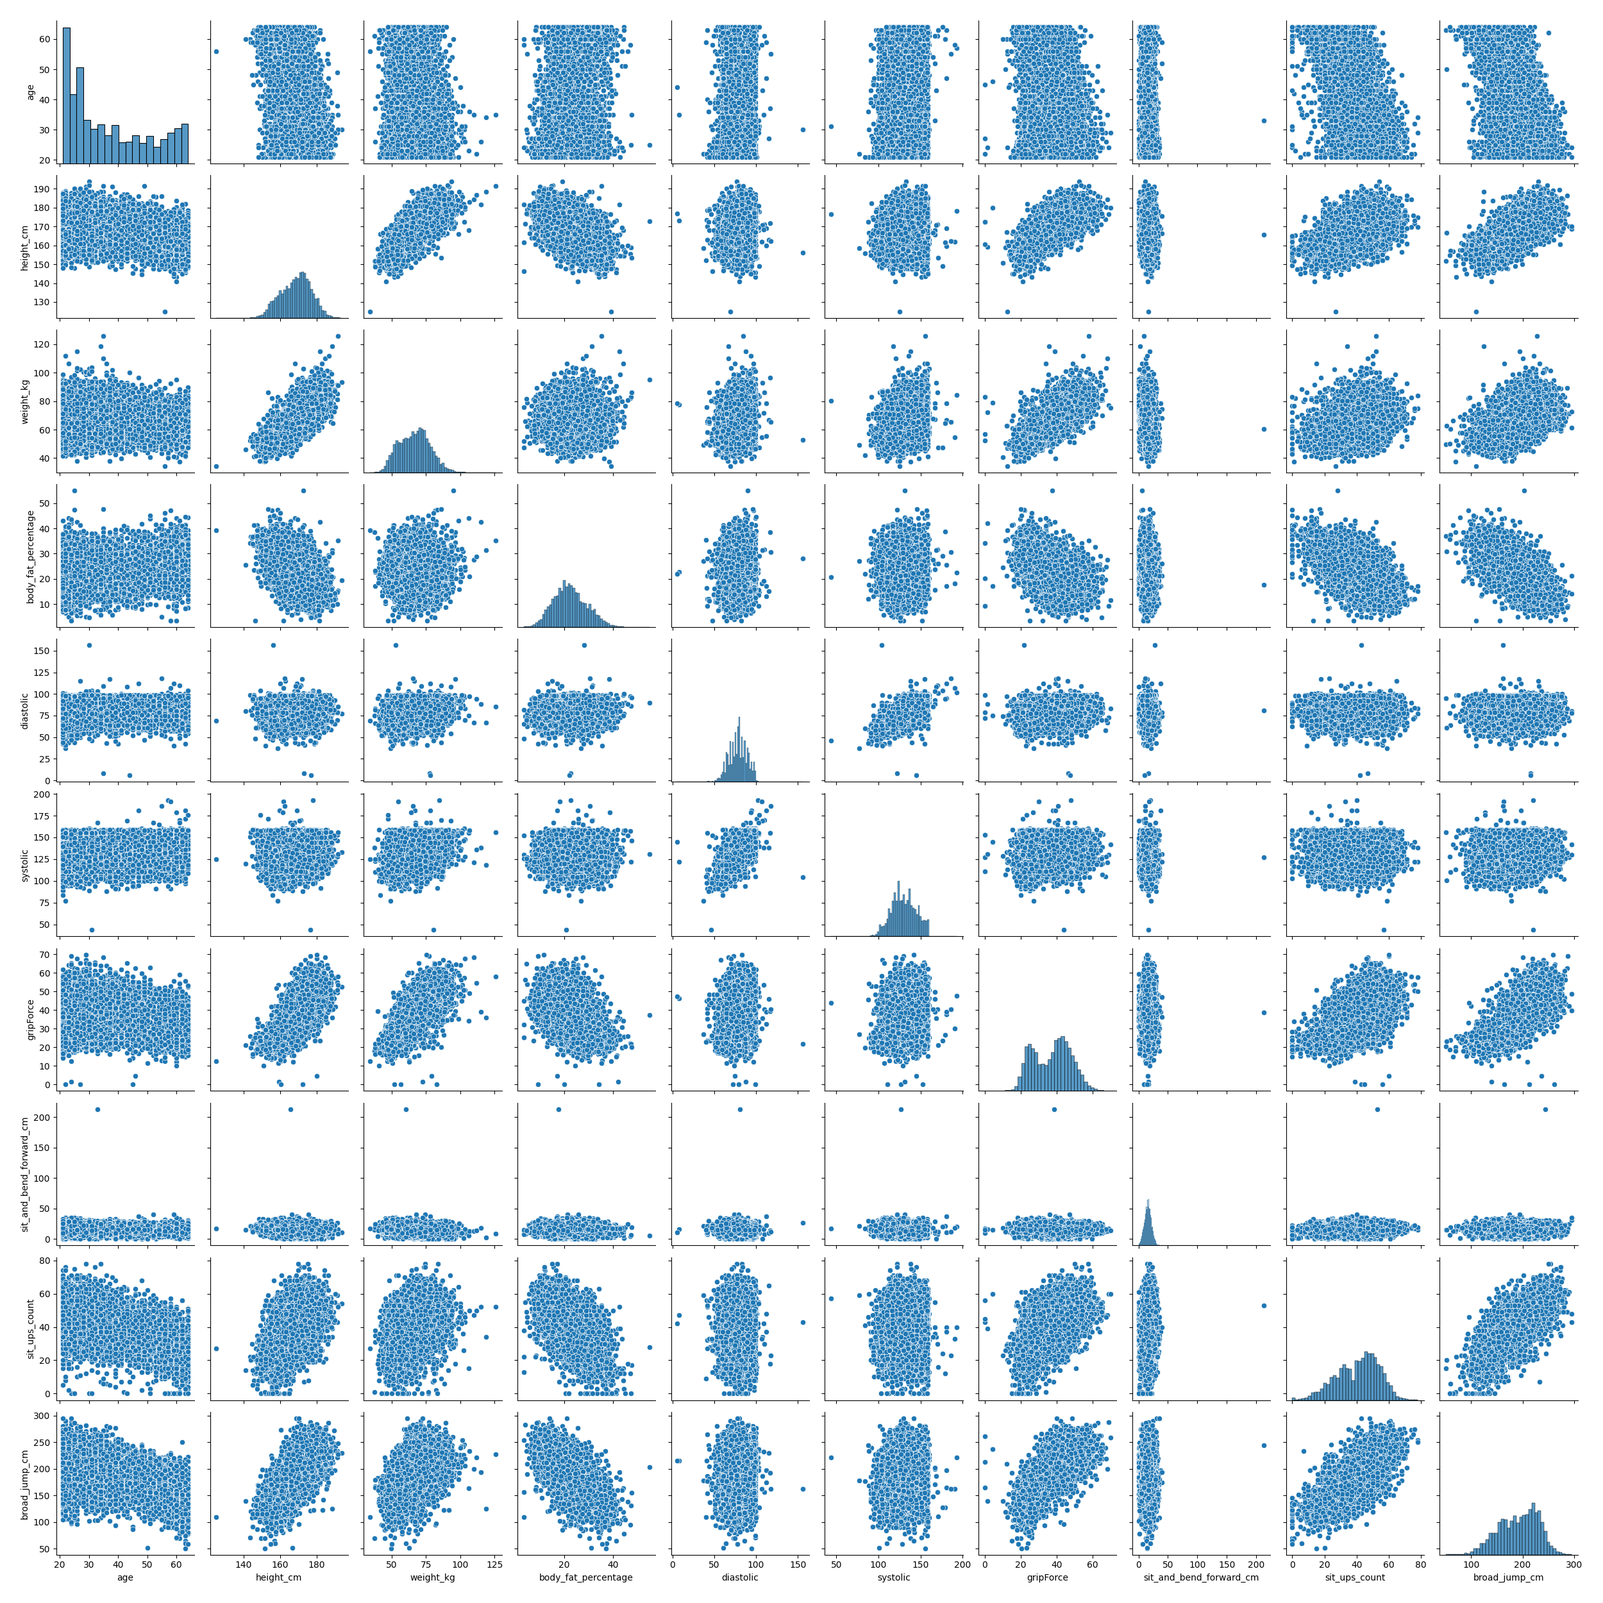
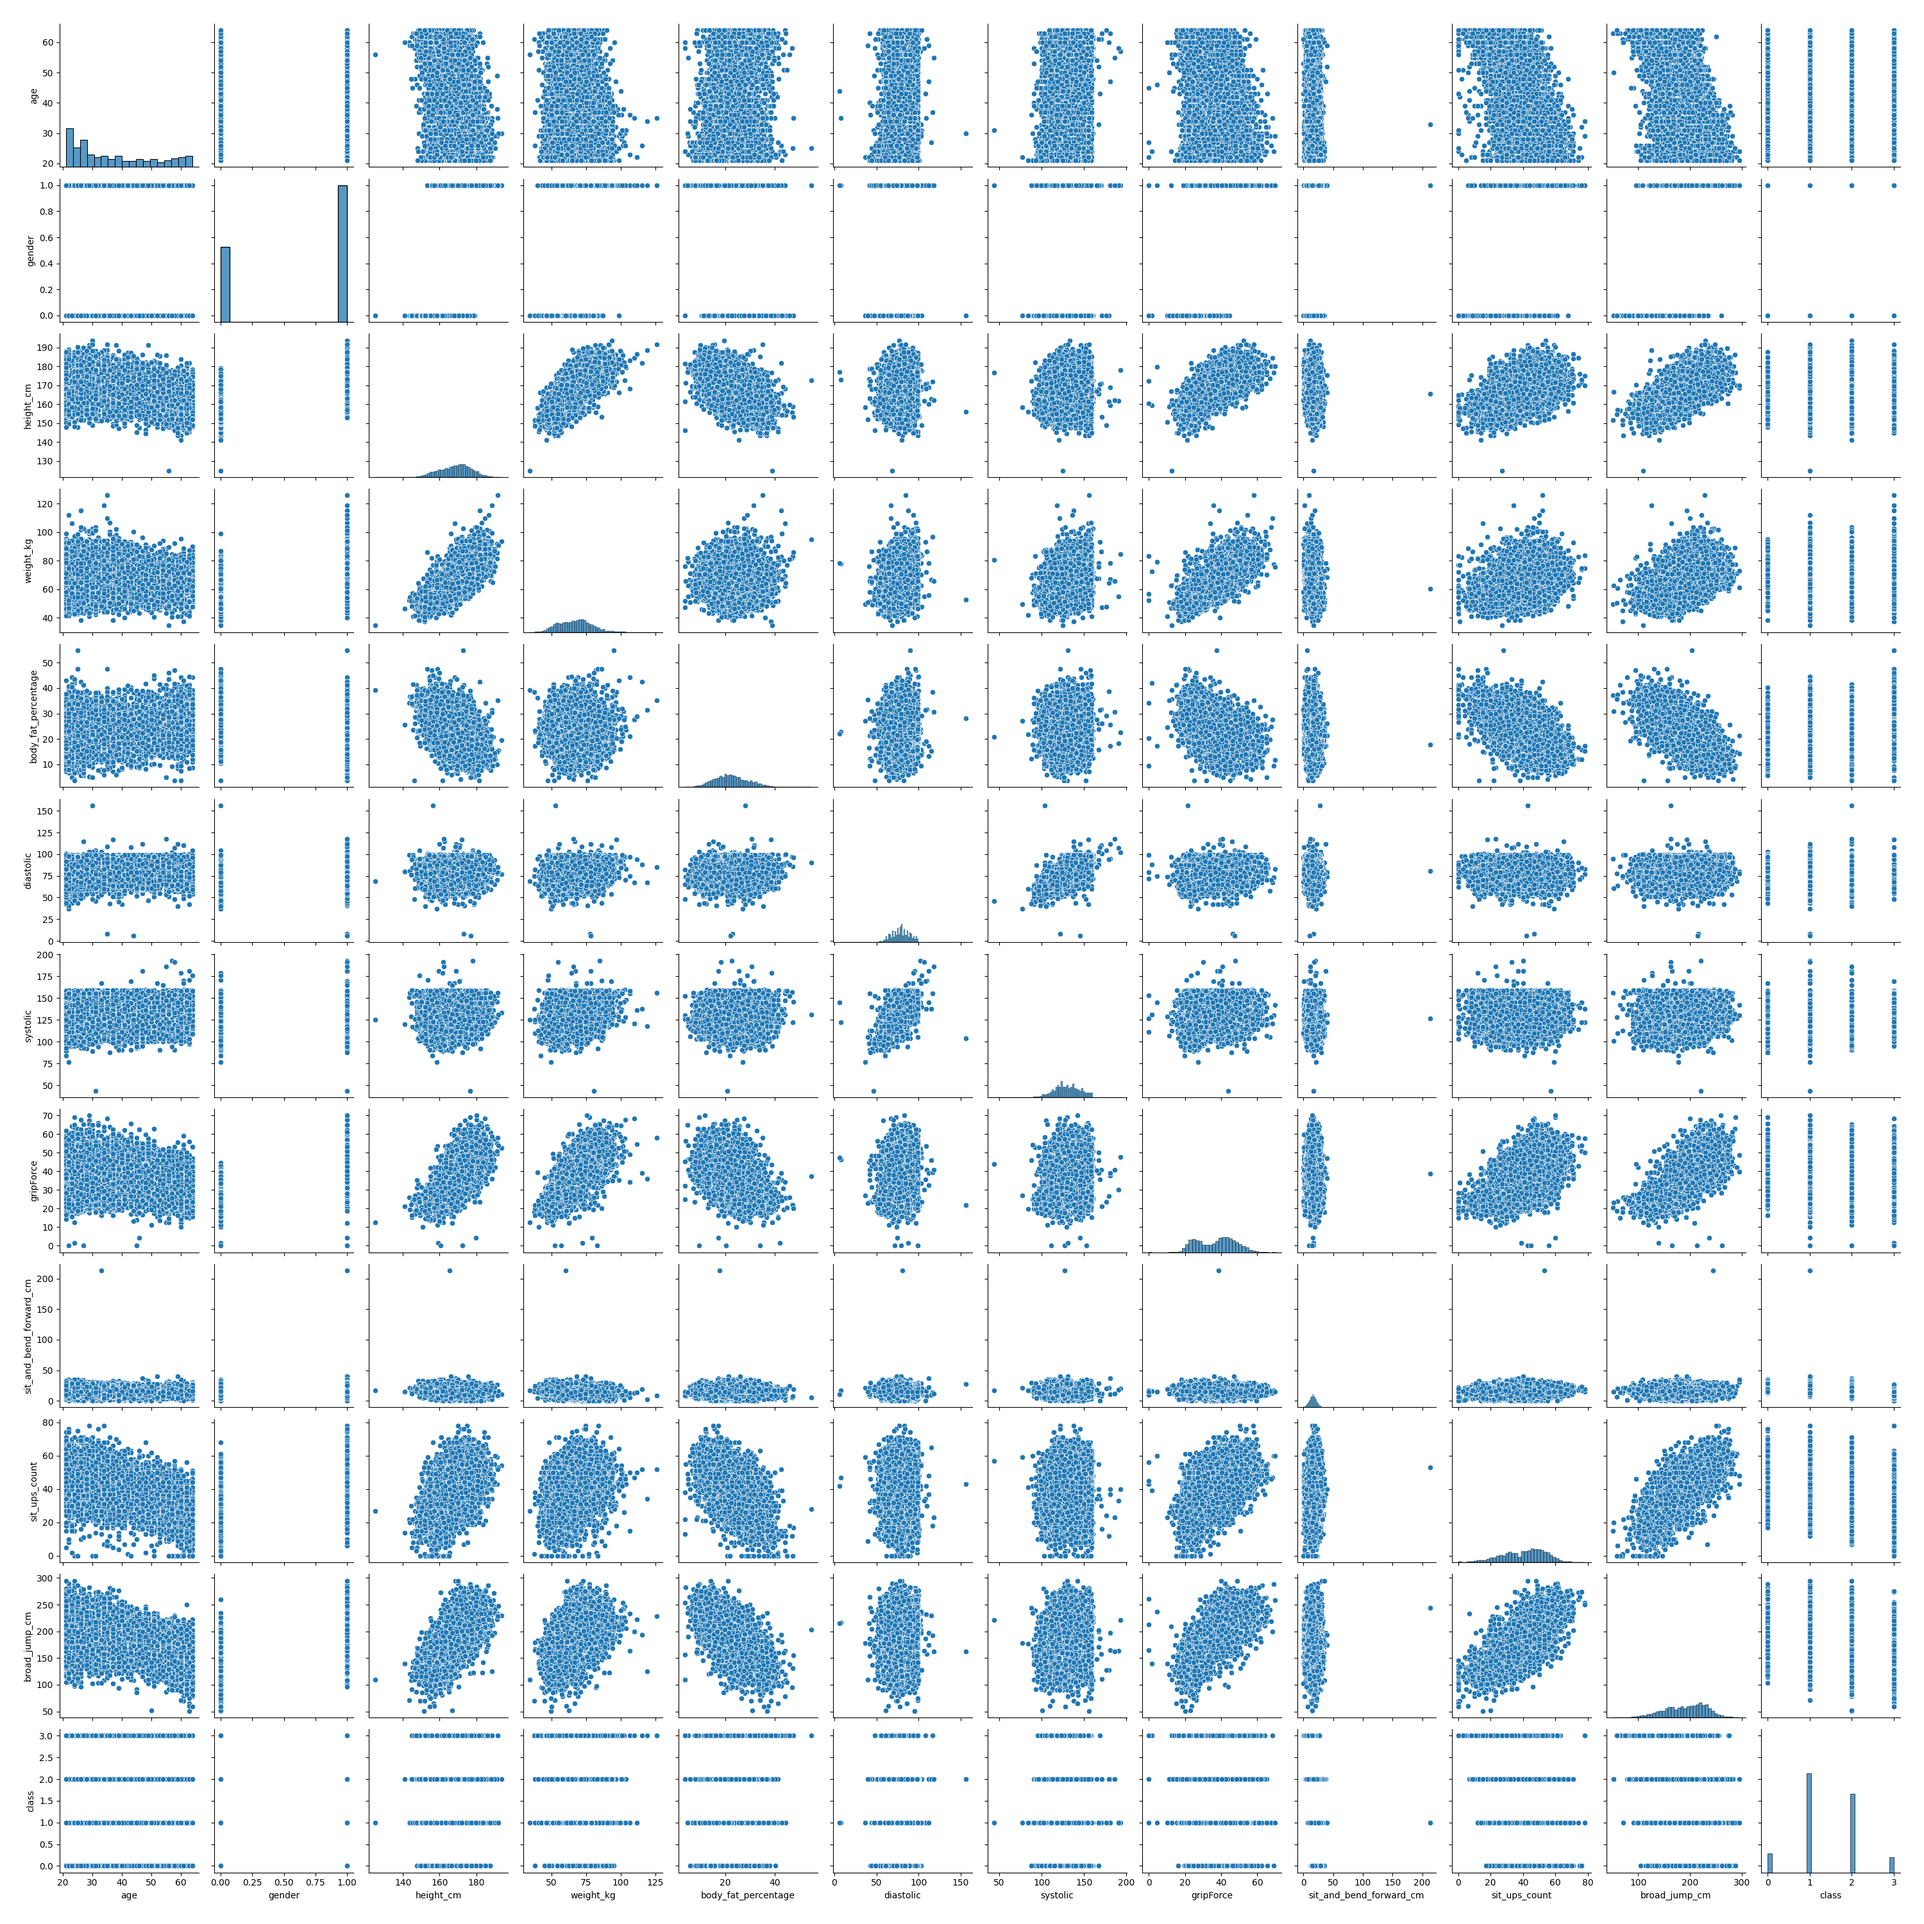
Implement Regression Model Training and Testing + reformat some data for training

diff --git a/main.py b/main.py
@@ -6,7 +6,9 @@ import seaborn as sns
 import matplotlib as mp
 import matplotlib.pyplot as plt
 import cv2
-import PyQt5
+import xgboost as xgb
+from sklearn.model_selection import train_test_split
+from sklearn.metrics import accuracy_score, mean_squared_error
 from pandas.conftest import axis
 
 # Before starting work, I reviewed the csv dataset and noticed that column names were non-standard. This would create
@@ -125,6 +127,13 @@ if __name__ == '__main__':
         data.drop(rows_with_wrong_broad_jump.index, inplace=True)
         results_file.write("Rows with wrong broad jump length deleted.\n\n")
 
+    # change categorical values of gender ('F', 'M') to binary (0, 1) values
+    data["gender"] = np.where(data["gender"] == "F", 0, 1)
+    data["class"] = np.where(data["class"] == "A", 0, data["class"])
+    data["class"] = np.where(data["class"] == "B", 1, data["class"])
+    data["class"] = np.where(data["class"] == "C", 2, data["class"])
+    data["class"] = np.where(data["class"] == "D", 3, data["class"])
+
     # 3. relationship analysis
     # correlation heatmap
     correlation = data.corr()
@@ -172,5 +181,40 @@ if __name__ == '__main__':
     results_file.write("You can check out the visualizations made with seaborn and matplotlib tools in the following "
                        "image files: correlation_heatmap.png, pair_plot.png, relational_plot.png, "
                        "histogram_plot.png, categorical_plot.png\n\n")
+
+    # train a regression model, because the majority of data is continuous rather than discrete.
+    # We would use classifier model for that case
+    x, y = data.iloc[:, :-1], data.iloc[:, -1]
+    data_dmatrix = xgb.DMatrix(data=x, label=y)
+    x_train, x_test, y_train, y_test = train_test_split(x, y, test_size=0.1, random_state=123)
+    xg_reg = xgb.XGBRegressor(objective='reg:linear', colsample_bytree=0.3, learning_rate=0.1,
+                              max_depth=5, alpha=10, n_estimators=60)
+    xg_reg.fit(x_train, y_train)
+
+    predictions = xg_reg.predict(x_test)
+    rmse = np.sqrt(mean_squared_error(y_test, predictions))  # root-mean-square error
+    print("RMSE Computed: %f" % (rmse))
+
+    # Result is displayed in an openCV window too
+    # Setup text display parameters
+    text = "RMSE Computed: %f" % rmse
+    font = cv2.FONT_HERSHEY_SIMPLEX
+    bottomLeftCornerOfText = (10, 300)
+    fontScale = 1
+    fontColor = (255, 255, 255)
+    thickness = 1
+    lineType = 2
+
+    result_img = np.zeros((512, 512, 3), np.uint8)  # Create a black image
+    cv2.putText(result_img,
+                text,
+                bottomLeftCornerOfText,
+                font,
+                fontScale,
+                fontColor,
+                thickness,
+                lineType)
+    cv2.imshow("Result of testing the regression model", result_img)
+
     cv2.waitKey(0)
     cv2.destroyAllWindows()
